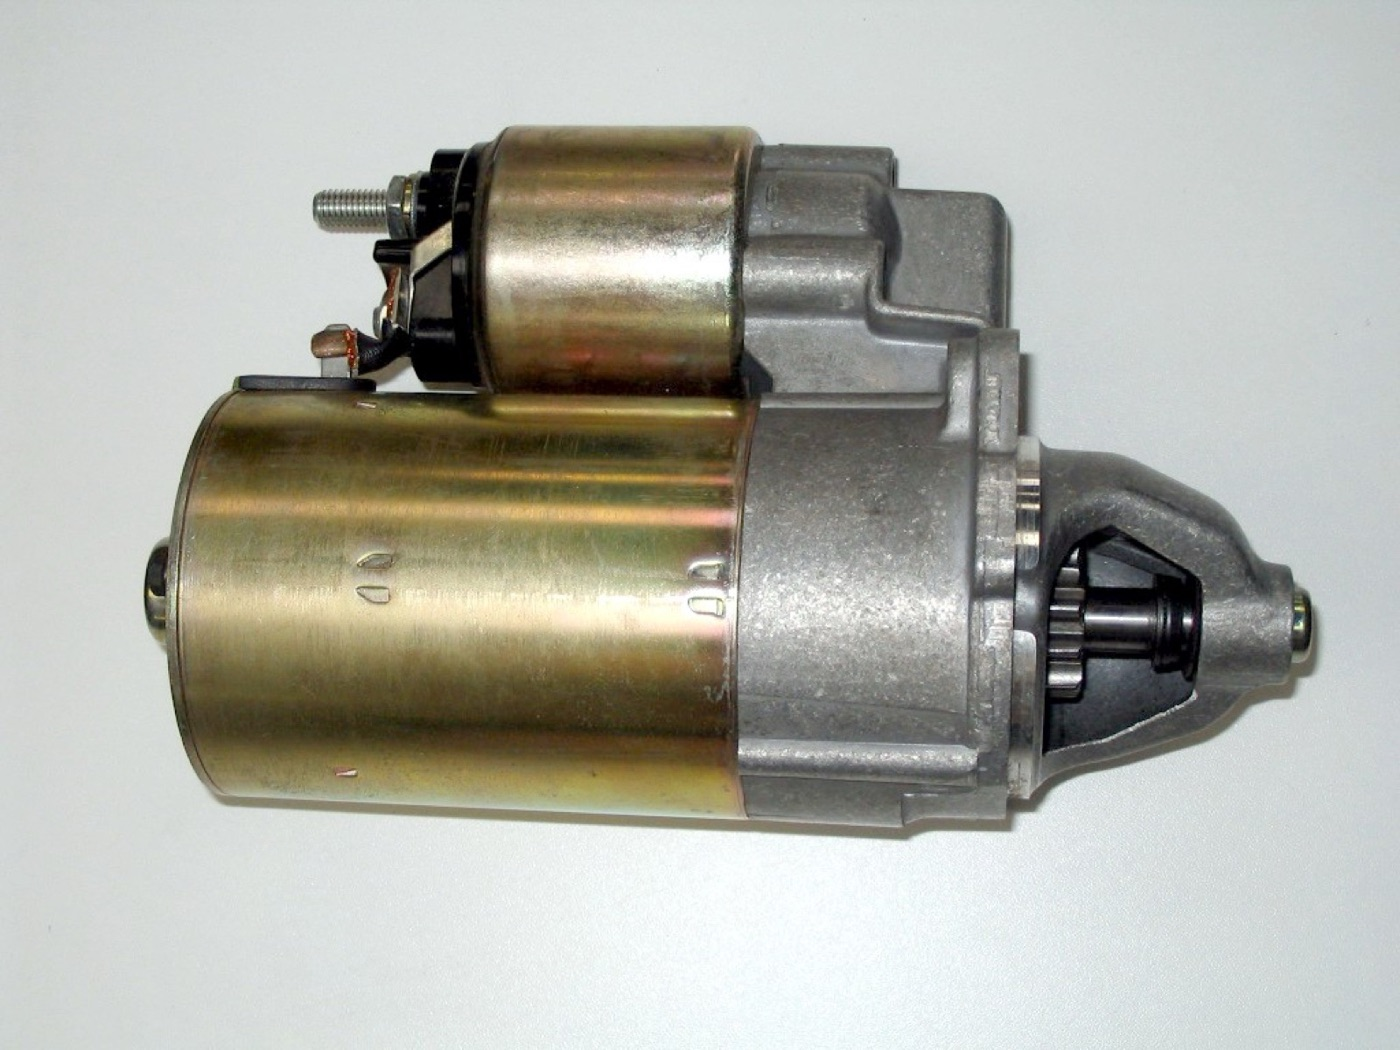
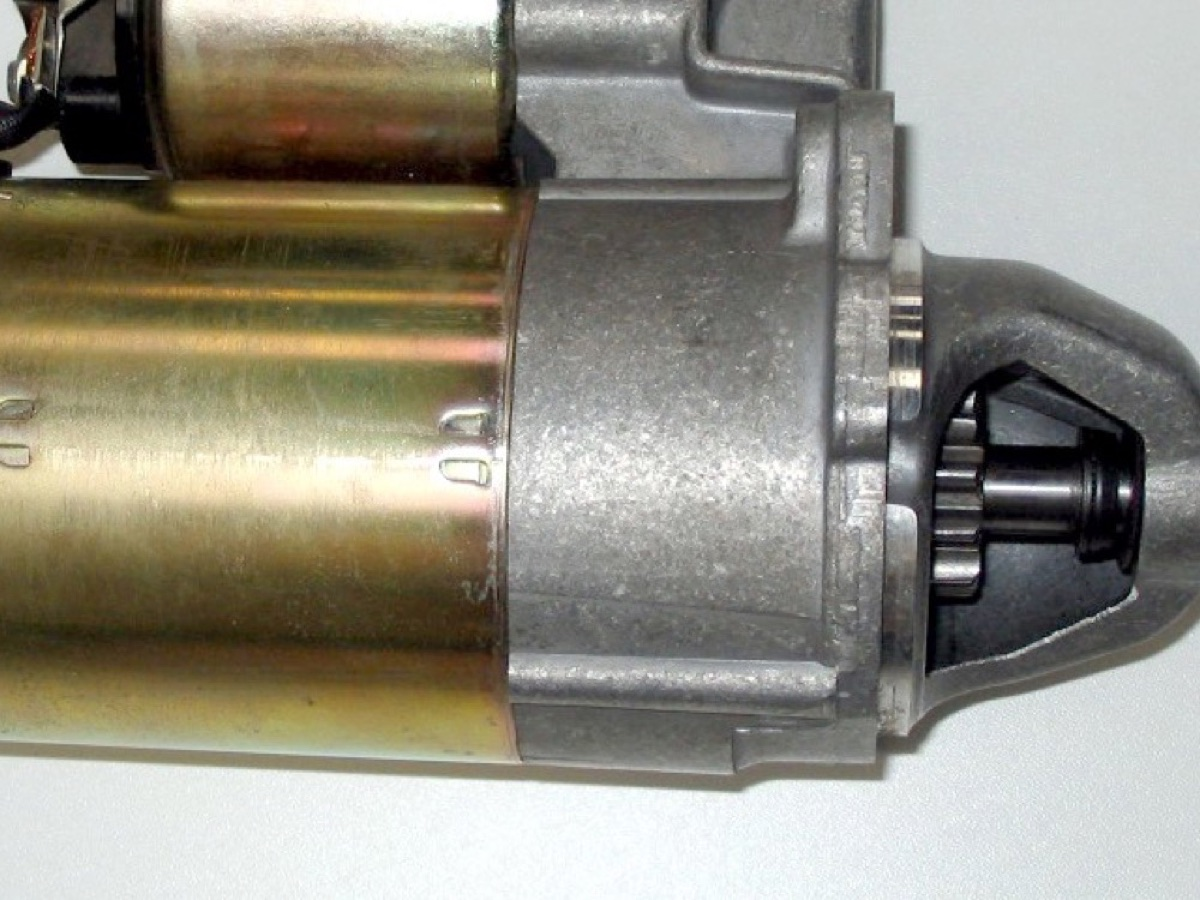
Client fixes: map pin, duplicated phone, phone labels, nicer hero photo
- Map pin: restored the coordinates the client originally sent
  (46.9928749, 28.9050486). My earlier OpenStreetMap geocode of "str. Uzinelor
  104" landed ~350 m off and was wrong; site.ts now says not to re-derive them.
- Closing CTA showed the number twice ("Sunați: 069 30 77 08 069 30 77 08"):
  the content string carried the number and the component appended it again.
  The content is now a label only and the component supplies the number from
  site.ts, so there is one source of truth.
- Contacts: the label beside each number said only "Reparații demaroare". Both
  repair lines cover starters and alternators, so they now read
  "Startere / generatoare" / "Стартеры / генераторы", and the phone-adjacent
  copy on the RO contacts page uses the client's own wording.
- Homepage photo: replaced the used alternator on a bench with a clean starter
  product shot on the light plate. See the note below.

Note on the hero photo: the client sent an AS-PL product photograph as the
reference. That image is copyrighted, and the free-licensed pool (Wikimedia,
Openverse) has nothing of that calibre for starters/alternators — Pexels and
Pixabay both block automated access. This is the best licensed shot available;
getting the reference look needs a paid stock licence, the supplier's own
partner assets, or twenty minutes photographing their actual parts.

Verified: build + tsc + eslint clean, 74 routes, no horizontal overflow.

diff --git a/content/images.ts b/content/images.ts
@@ -18,14 +18,14 @@ export interface ImageAsset {
 }
 
 export const heroImage: ImageAsset = {
-  src: "/img/hero-atelier.jpg",
-  width: 1120,
-  height: 1400,
+  src: "/img/hero-starter.jpg",
+  width: 1400,
+  height: 1050,
 };
 
 /** Keyed by part-category slug. */
 export const partImages: Record<string, ImageAsset> = {
-  demaroare: { src: "/img/p-demaroare.jpg", width: 1400, height: 1050, plate: true },
+  demaroare: { src: "/img/p-demaroare.jpg", width: 1200, height: 900, plate: true },
   bendix: { src: "/img/p-bendix.jpg", width: 1200, height: 900 },
   "rotor-demaror": { src: "/img/p-rotor-demaror.jpg", width: 1400, height: 932, plate: true },
   "releu-cuplare": { src: "/img/p-releu-cuplare.jpg", width: 1200, height: 900 },
@@ -122,8 +122,8 @@ export const credits: Credit[] = [
     source: "https://starterplus.md",
   },
   {
-    files: ["/img/p-demaroare.jpg", "/img/p-bendix.jpg", "/img/p-releu-cuplare.jpg"],
-    title: "Automobile starter (also cropped for the drive pinion and the solenoid)",
+    files: ["/img/hero-starter.jpg", "/img/p-demaroare.jpg", "/img/p-bendix.jpg", "/img/p-releu-cuplare.jpg"],
+    title: "Automobile starter (used for the homepage hero, and cropped for the catalogue card, the drive pinion and the solenoid)",
     author: "Wikimedia Commons contributor",
     licence: "CC BY-SA 3.0",
     source: "https://commons.wikimedia.org/wiki/File:Automobile_starter.JPG",
@@ -136,8 +136,8 @@ export const credits: Credit[] = [
     source: "https://commons.wikimedia.org/wiki/File:Kommutator_universalmotor_stab.jpg",
   },
   {
-    files: ["/img/hero-atelier.jpg", "/img/p-alternatoare.jpg", "/img/p-fulie-alternator.jpg"],
-    title: "Car alternator on a workbench surrounded by various auto parts in a garage (cropped for the hero, the category card and the pulley)",
+    files: ["/img/p-alternatoare.jpg", "/img/p-fulie-alternator.jpg"],
+    title: "Car alternator on a workbench surrounded by various auto parts in a garage (cropped for the category card and the pulley)",
     author: "Wikimedia Commons contributor",
     licence: "CC BY 2.0",
     source: "https://commons.wikimedia.org/wiki/File:Car_alternator_on_a_workbench_surrounded_by_various_auto_parts_in_a_garage.jpg",

diff --git a/content/ro/contact.ts b/content/ro/contact.ts
@@ -8,7 +8,7 @@ export const contact: Doc & { formIntro?: string } = {
   highlights: [
     "str. Uzinelor 104, Chișinău (Lunca Bâcului 35 A)",
     "Luni – Vineri 09:00 – 18:00 · Sâmbătă 09:00 – 16:00 · Duminică zi liberă",
-    "Demaroare și alternatoare: 069 30 77 08, 079 30 77 08",
+    "Startere și generatoare: 069 30 77 08, 079 30 77 08",
     "Electrician auto și diagnosticare: 079 10 77 08",
     "Examinare și deviz în ziua în care primim agregatul",
   ],
@@ -31,13 +31,13 @@ export const contact: Doc & { formIntro?: string } = {
     { type: "h2", text: "Telefoane" },
     {
       type: "p",
-      text: "Sunați direct pe linia de care aveți nevoie: la reparații răspunde atelierul de demaroare și alternatoare, la electrică răspunde electricianul auto.",
+      text: "Sunați direct pe linia de care aveți nevoie: la reparații răspunde atelierul de startere și generatoare, la electrică răspunde electricianul auto.",
     },
     {
       type: "table",
       head: ["Telefon", "Pentru ce sunați"],
       rows: [
-        ["069 30 77 08", "Reparație demaroare și alternatoare, comenzi de piese și componente"],
+        ["069 30 77 08", "Reparația starterelor și generatoarelor, comenzi de piese și componente"],
         ["079 30 77 08", "Aceleași solicitări, a doua linie — folosiți-o dacă prima este ocupată"],
         ["079 10 77 08", "Electrician auto și diagnosticare computerizată a automobilului"],
       ],

diff --git a/lib/site.ts b/lib/site.ts
@@ -68,19 +68,21 @@ export const site = {
   },
 
   /**
-   * str. Uzinelor 104, sectorul Ciocana. Geocoded from OpenStreetMap for the
-   * new address — worth confirming the exact pin with the workshop.
+   * The pin the client sent for the workshop. An OpenStreetMap geocode of
+   * "str. Uzinelor 104" landed ~350 m north-west of here and was wrong, so
+   * these coordinates are authoritative — do not re-derive them from the street
+   * address.
    */
   geo: {
-    lat: 46.9956324,
-    lng: 28.9021466,
+    lat: 46.9928749,
+    lng: 28.9050486,
   },
 
-  mapsUrl: "https://maps.google.com/maps?q=46.9956324,28.9021466",
+  mapsUrl: "https://maps.google.com/maps?q=46.9928749,28.9050486",
   mapsDirectionsUrl:
-    "https://www.google.com/maps/dir/?api=1&destination=46.9956324,28.9021466",
+    "https://www.google.com/maps/dir/?api=1&destination=46.9928749,28.9050486",
   mapsEmbedUrl:
-    "https://www.google.com/maps?q=46.9956324,28.9021466&z=17&output=embed",
+    "https://www.google.com/maps?q=46.9928749,28.9050486&z=17&output=embed",
 
   /**
    * Working hours per client instruction:

diff --git a/app/[locale]/page.tsx b/app/[locale]/page.tsx
@@ -81,13 +81,13 @@ export default async function HomePage({
 
             {/* real photograph, not a generated graphic */}
             <div data-reveal className="relative">
-              <div className="card media aspect-[4/5] w-full lg:aspect-[3/4]">
+              <div className="card media media-plate aspect-[4/3] w-full">
                 <Image
                   src={heroImage.src}
                   alt={
                     locale === "ro"
-                      ? "Alternator auto demontat, pe bancul de lucru din atelier"
-                      : "Снятый автомобильный генератор на рабочем столе в мастерской"
+                      ? "Demaror auto recondiționat, gata de montaj"
+                      : "Восстановленный автомобильный стартер, готовый к установке"
                   }
                   width={heroImage.width}
                   height={heroImage.height}

diff --git a/app/[locale]/contacte/page.tsx b/app/[locale]/contacte/page.tsx
@@ -7,6 +7,7 @@ import { BreadcrumbJsonLd, FaqJsonLd } from "@/components/JsonLd";
 import { MapFrame } from "@/components/MapFrame";
 import { OpenBadge } from "@/components/OpenBadge";
 import { PageHero } from "@/components/PageHero";
+import { phoneRoleLabels } from "@/content/groups";
 import { SECTIONS } from "@/content/taxonomy";
 import { localePath } from "@/lib/locales";
 import { docMetadata, loadPage } from "@/lib/page";
@@ -28,10 +29,7 @@ export default async function ContactPage({ params }: Params) {
   const faqBlock = doc.body.find((block) => block.type === "faq");
   const faqItems = faqBlock?.type === "faq" ? faqBlock.items : [];
 
-  const roleLabel: Record<string, string> = {
-    repairs: dict.services.items["reparatii-demaroare"]?.short ?? "",
-    autoElectric: dict.services.items["electrician-auto"]?.short ?? "",
-  };
+  const roleLabel = phoneRoleLabels[locale];
 
   return (
     <>

diff --git a/content/groups.ts b/content/groups.ts
@@ -17,6 +17,22 @@ export const partGroupLabels: Record<Locale, Record<"starter" | "alternator" | "
   },
 };
 
+/**
+ * What each phone line is for, shown beside the number on the contacts page.
+ * Both repair lines cover starters AND alternators — the client asked for both
+ * to be named, shortened to a slash pair so it fits the narrow label column.
+ */
+export const phoneRoleLabels: Record<Locale, Record<"repairs" | "autoElectric", string>> = {
+  ro: {
+    repairs: "Startere / generatoare",
+    autoElectric: "Electrician auto",
+  },
+  ru: {
+    repairs: "Стартеры / генераторы",
+    autoElectric: "Автоэлектрик",
+  },
+};
+
 /** Short label for the "everything" chip in the catalog filter. */
 export const allPartsLabel: Record<Locale, string> = {
   ro: "Toate piesele",

diff --git a/content/ru/home.ts b/content/ru/home.ts
@@ -140,7 +140,7 @@ export const home: Home = {
   ctaBand: {
     title: "Привозите агрегат на str. Uzinelor 104",
     text: "Адрес также значится как Лунка Быкулуй 35 A. Понедельник–пятница 09:00–18:00, суббота 09:00–16:00, воскресенье — выходной. Позвоните заранее, назовите марку, модель и год автомобиля — и мы сразу скажем, есть ли деталь на складе.",
-    primary: "Звоните: 069 30 77 08",
+    primary: "Звоните",
     secondary: "Оставить заявку",
   },
 };

diff --git a/components/CtaBand.tsx b/components/CtaBand.tsx
@@ -25,7 +25,7 @@ export function CtaBand({ locale, title, text, primary, secondary }: Props) {
           <div data-reveal className="flex flex-wrap gap-3 lg:justify-end">
             <a href={site.primaryPhone.href} className="btn btn-accent">
               <Icon name="phone" size={16} />
-              {primary} {site.primaryPhone.display}
+              {primary}: <span className="figure-mono">{site.primaryPhone.display}</span>
             </a>
             <Link href={localePath(locale, "contacte")} className="btn btn-ghost">
               {secondary}

diff --git a/content/ro/home.ts b/content/ro/home.ts
@@ -140,7 +140,7 @@ export const home: Home = {
   ctaBand: {
     title: "Aduceți agregatul la str. Uzinelor 104",
     text: "Adresa apare și ca Lunca Bâcului 35 A. Luni–vineri 09:00–18:00, sâmbătă 09:00–16:00, duminică — zi liberă. Sunați înainte cu marca, modelul și anul mașinii și vă spunem la telefon dacă piesa este pe stoc.",
-    primary: "Sunați: 069 30 77 08",
+    primary: "Sunați",
     secondary: "Trimiteți o solicitare",
   },
 };
